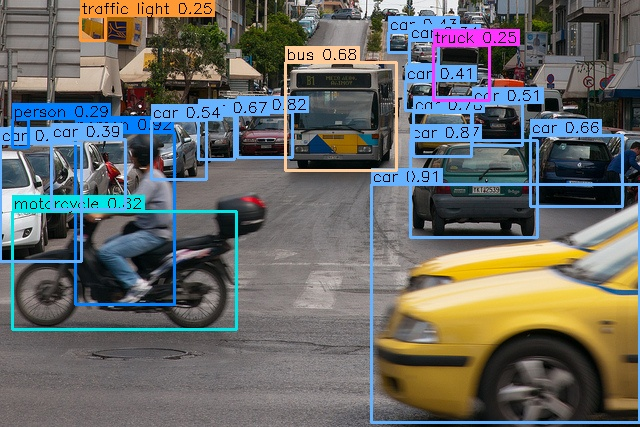
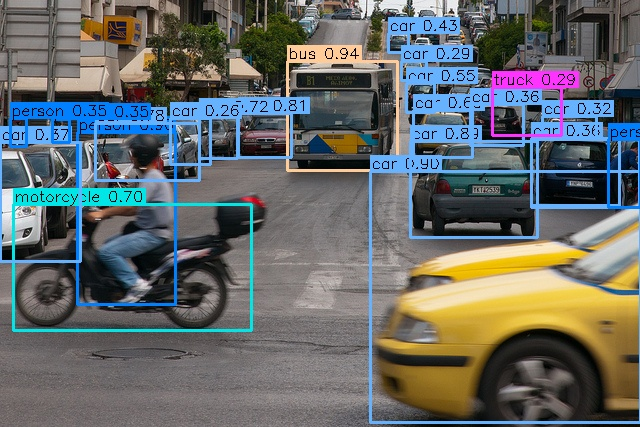
docs: update detection results to the 300-epoch runs
Replace the detection table's from-scratch rows with the 300-epoch runs:
YOLO26n 37.82 / 53.24 E2E (38.65 / 54.46 NMS) and Flash-YOLO 35.14 /
50.15 E2E (36.09 / 51.56 NMS), keeping the 100-epoch numbers as history.
Record the runs (63 h 12 min / 62 h 39 min, batch 32), the 100->300 gains
and the near-flat final-10-epoch curves in weights.md, yolo26-runs.md,
flash-yolo-spec.md and alignment.md.

Regenerate the two detection sample renders with the 300-epoch Flash-YOLO
checkpoint and update assets/README.md accordingly; segmentation renders
remain the 100-epoch checkpoint.

diff --git a/docs/yolo26-runs.md b/docs/yolo26-runs.md
@@ -8,7 +8,8 @@
 
 - 官方 40.1（E2E）/ 40.9（NMS）= **Objects365v1 预训练 150 轮 + COCO 微调 245 轮**（n 档
   batch 128）的结果，**不是从零训练**——本页的从零数字与它不构成 like-for-like 对比。
-- 本仓库自己那条"从零 100 轮"基线是给"100 轮预算能买到什么"这个问题一个诚实回答。
+- 本仓库的从零基线：**100 轮 36.22 / 300 轮 37.82**（E2E，均 @640）——分别回答
+  "100/300 轮预算能买到什么"。
 
 ## 2. 官方权重验收（复现基线）
 
@@ -44,6 +45,7 @@ python scripts/eval.py --weights weights/yolo26n.safetensors --data coco --nms  
 | run | 时间 | 配置（640 输入） | 状态 | 训练中 best | 正式 mAP@[.5:.95] / mAP@50 |
 |---|---|---|---|---|---|
 | `yolo26n-from-scratch` | 10-07 20:44 → 10-08 11:03 | 100 ep · batch 64 · default 配方 · 14 h 18 m | 完成 | 0.3581 / 0.5065 | **36.22 / 51.32**（E2E）· **37.15 / 52.67**（NMS） |
+| `v1-yolo26n-e300`（`-e3002`） | 10-25 14:35 → 10-28 05:48 | 300 ep · batch 32（nbs 64 → accum 2）· default 配方 · 63 h 12 m | 完成 | 0.3740 / 0.5258（best 在 ep297） | **37.82 / 53.24**（E2E）· **38.65 / 54.46**（NMS） |
 | （早期）误用 `coco-ft` 微调档的 100 轮 | 2026-10 早期 | 100 ep · batch 64 | 完成（**产物未留存**） | — | 32.33 / —（E2E）· 33.29 / —（NMS） |
 | `yolo26n` | 10-08 14:36 | 100 ep 启动 | 第 1 轮内中断（无产物） | — | — |
 | `abcur` / `abcurb` | 10-08 16:31 | coco-tiny · 1 ep · `--val-limit 100` | 开发冒烟 | — | — |
@@ -56,8 +58,20 @@ python scripts/eval.py --weights yolo26n-from-scratch-e100-640.safetensors --dat
 python scripts/eval.py --weights yolo26n-from-scratch-e100-640.safetensors --data coco --nms
 ```
 
+> `v1-yolo26n-e300` 用 v0.7.0 默认（MuSGD 0.2/1.0）与 batch 32（nbs 64 → accumulate 2），
+> 与 100 轮 run 的 batch 64 / 旧 MuSGD 默认不同；梯度语义由 nbs 保证，数字差异主要来自预算。
+
+```bash
+# 从零 300 轮（v1 战役；63 h 12 m，正式 37.82 / 53.24 E2E · 38.65 / 54.46 NMS）
+python scripts/train.py --data coco --name v1-yolo26n-e300 --batch 32 --epochs 300
+python scripts/eval.py --weights runs/train/train-v1-yolo26n-e3002/weights/best.safetensors --data coco
+python scripts/eval.py --weights runs/train/train-v1-yolo26n-e3002/weights/best.safetensors --data coco --nms
+```
+
 **收敛观察**：100 轮最后 10 轮 FastMetrics 仍 **+0.0038 mAP / +0.0046 mAP50**——放缓但没平，
-说明 100 轮还没吃干净基线配方。这也是"官方 245 轮 + O365 预训练"不可直接对比的直观证据。
+说明 100 轮还没吃干净基线配方。300 轮最后 10 轮只剩 **+0.0012 / +0.0017**（ep295→300），
+末段（close_mosaic + lr→0）合计约 +0.1——300 轮已接近该配方的从零收敛上限。100 → 300 轮
+买到 **+1.60 / +1.92**（E2E）与 +1.50 / +1.79（NMS）。
 
 ## 4. 训练管线与官方的对齐
 
@@ -89,17 +103,19 @@ python scripts/eval.py --weights yolo26n-from-scratch-e100-640.safetensors --dat
    o2o cls P3 头出现 BN 掩蔽的复利增长（loss 全程正常而权重 1.8→1e10，~110 batch 内发散）。
    排查这类"loss 正常但权重爆"要盯**非 bias 权重的 |w|max**。
 
-## 6. 为什么还差 4 个点
+## 6. 为什么还差 2.5 个点
 
-- 36.22（本仓库从零 100 轮）vs 40.27（官方权重本管线）：差距全部来自**训练侧**，不含实现
-  差异——同一套代码跑官方权重就是 40.27，且 loss/梯度与官方双实现对照 <1%/<2%。
-- 两个已知来源：**O365 预训练**（官方全部 checkpoint 都有）+ **轮数预算**（100 vs 245）。
-- 100 轮未收敛（见第 3 节末 10 轮数据）支持"预算不足"这一半；O365 那一半本仓库无法提供
-  （缺数据集与算力），因此不宣称"从零可复现 40.1"。
+- 37.82（本仓库从零 300 轮）vs 40.27（官方权重本管线）：差距 2.45，全部来自**训练侧**，
+  不含实现差异——同一套代码跑官方权重就是 40.27，且 loss/梯度与官方双实现对照 <1%/<2%。
+- 两个已知来源：**O365 预训练**（官方全部 checkpoint 都有）+ **预算/微调轮数**（官方 =
+  O365 150 轮 + COCO 245 轮微调，不是从零 300 轮）。
+- 预算已被 100→300 轮的 +1.60 / +1.92 部分兑现；300 轮末段已经平（最后 10 轮 +0.0012），
+  继续加轮数的边际收益很小。剩余 2.45 主要是 O365 初始化——本仓库无法提供（缺数据集与算力），
+  因此不宣称"从零可复现 40.1"。
 
 ## 7. 备注
 
-- `runs/train/yolo26n-from-scratch/` 是唯一保留完整产物的从零 run（diag / samples / 周期
-  checkpoint / resume.pt 齐全），复盘与对照都用它。
+- `runs/train/yolo26n-from-scratch/`（100 ep）与 `runs/train/train-v1-yolo26n-e3002/`
+  （300 ep）保留完整产物（diag / samples / 周期 checkpoint / resume.pt 齐全），复盘与对照都用它们。
 - 早期"误用 coco-ft 档"的 100 轮 run 与增强修复前的基线 run 的产物未留存，本页记录的是
   当时写入 CLAUDE.md 的正式数字。

diff --git a/docs/weights.md b/docs/weights.md
@@ -1,8 +1,8 @@
 # 发布权重档案（Released checkpoints）
 
 > 权重与延迟的权威档案：4 份**从零自训**检测 checkpoint 的精度 / 速度 / 部署产物记录
-> （2026-10-15 复测），另附分割参考数字。2026-10-26 又补录了两份 v0.7.0 默认值复跑的
-> v3 权重（本地、未分发，见 §1.1）。
+> （2026-10-15 复测），另附分割参考数字。2026-10-26/28 补录了 v0.7.0 默认值的 300 轮 run
+> （v3 与检测，本地、未分发，见 §1.1 / §1.2）。
 > 权重本体随 GitHub [Releases](https://github.com/zjykzj/flash-yolo/releases) 分发（自训产物，
 > 官方来源的转换权重不随附——用 `scripts/download_weights.py` + `convert_weights.py` 自行获取）。
 > 训练过程与配方见 `yolov3-tiny-runs.md` / `yolo26-runs.md` / `flash-yolo-spec.md` /
@@ -23,7 +23,7 @@
 + COCO 微调）= **40.27 / 55.80**（E2E）· **40.89 / 56.87**（NMS）。v3 两行与官方 v3 的 mAP50-95
 差 0.42 / 0.87；mAP50 差 3.93 / 4.81。
 
-### 1.1 本地复跑（v0.7.0 默认，未随 Release 分发）
+### 1.1 v3 300 轮（v0.7.0 默认，未随 Release 分发）
 
 2026-10-25/26 用 v0.7.0 原样默认（MuSGD 0.2/1.0）复跑了两条 300 轮，配方与上表两份 v3
 权重逐项相同（batch 64 / nbs 64 / 416 / seed 0 / `--obj-iou-target`），唯一差异是 MuSGD
@@ -37,6 +37,23 @@
 对照：v0.6.0 批次同配方 = 16.52 / 30.44（SiLU）与 16.07 / 29.56（原版）——原版基本复现，
 SiLU 低 0.37 / 0.51；SiLU 相对原版的增益从 +0.45 / +0.88 缩小到 +0.12 / +0.34。分析见
 `yolov3-tiny-runs.md` §4.6。要复现 v0.6.0 数字，训练时加 `--muon-w 0.528 --sgd-w 0.674`。
+
+### 1.2 检测 300 轮（v0.7.0 默认，未随 Release 分发）
+
+2026-10-25 → 10-28 从零 300 轮（default 配方、640、batch 32、nbs 64、fp32、seed 0、v0.7.0
+默认 MuSGD 0.2/1.0），产物在本地 `runs/`：
+
+| 权重（本地路径） | 输出 | 训练 | 输入 | mAP50-95 | mAP50 | P / R |
+|---|---|---|---:|---:|---:|---:|
+| `runs/train/train-v1-yolo26n-e3002/weights/best.safetensors` | YOLO26n · E2E | 300 ep · 63 h 12 min | 640 | **37.82** | **53.24** | 0.6652 / 0.4984 |
+| 同上 · NMS（o2m） | | 同 run | 640 | 38.65 | 54.46 | 0.6752 / 0.5092 |
+| `runs/train/train-v1-flash-yolo-e3002/weights/best.safetensors` | Flash-YOLO · E2E | 300 ep · 62 h 39 min | 640 | **35.14** | **50.15** | 0.6245 / 0.4799 |
+| 同上 · NMS（o2m） | | 同 run | 640 | 36.09 | 51.56 | 0.6441 / 0.4910 |
+
+- 100 轮参考（§1 主表）：yolo26n 36.22 / 51.32（NMS 37.15 / 52.67）、flash 33.77 / 48.63
+  （NMS 34.72 / 50.16）→ 300 轮增益 +1.60 / +1.92 与 +1.37 / +1.52（E2E）。
+- 官方 yolo26n（O365 + COCO）E2E 40.27 / 55.80 → 从零 300 轮差 2.45 / 2.56。
+- 评估产物：`runs/val/val5`（yolo26n E2E）、`val7`（NMS）、`val6`（flash E2E）、`val8`（NMS）。
 
 ## 2. 分割参考（COCO val2017，Box + Mask，640）
 
@@ -91,6 +108,8 @@ COCO 微调；从零行与官方**不是同预算**。
 - 2026-10-26 复跑的两份 v3 权重与上表 v3 两行**架构与导出链路完全相同**，延迟不随权重数值
   变化，故不新增表行。本次抽检（416，单图 model-only）：pt ≈2.4–2.7 ms、ORT-CPU
   ≈4.4–5.1 ms、TRT fp32 ≈0.8 ms、TRT fp16 ≈1.0–1.2 ms，与上表同量级。
+- 2026-10-28 的两份检测 300 轮权重（§1.2）与 100 轮检测权重架构/导出链路相同，延迟不随权重
+  数值变化，不新增表行。
 
 ## 4. 部署产物（`runs/release-weights/`，与本页同批生成）
 
@@ -125,6 +144,8 @@ COCO 微调；从零行与官方**不是同预算**。
   （`version 0.5.0` · `commit 0baa0bf` · `describe v0.5.0-20-g0baa0bf`）
 - 两份 v0.7.0 复跑权重（本地）：header 自带 `arch/scale/nc/imgsz/names` + provenance
   （`version 0.7.0` · `commit e7cac56` · `describe v0.7.0-3-ge7cac56-dirty`）
+- 两份检测 300 轮权重（本地）：同 provenance（`version 0.7.0` · `commit e7cac56` ·
+  `describe v0.7.0-3-ge7cac56-dirty`）
 - `flash-yolo-e100-640`：自带 arch/scale/nc/imgsz（保存于 2026-10-11，无 provenance 字段）
 - `yolo26n-from-scratch-e100-640`：无 metadata（保存于 2026-10-08）——消费时需显式
   `--model yolo26 --scale n --imgsz 640`

diff --git a/README.md b/README.md
@@ -23,14 +23,18 @@
 
 COCO val2017, official pycocotools (`scripts/eval.py`), 640 input. E2E = NMS-free default path;
 NMS = one-to-many head + NMS. Official rows are Objects365 pretraining + COCO finetuning;
-"from scratch" rows use the built-in baseline recipe for 100 epochs — not like for like.
+"from scratch" rows use the built-in baseline recipe for 300 epochs — not like for like.
 
 | Model | Training | E2E mAP50-95 | E2E mAP50 | NMS mAP50-95 | NMS mAP50 | Params | GFLOPs |
 |---|---|---:|---:|---:|---:|---:|---:|
 | YOLO26n · official weights | O365 + COCO | **40.27** | 55.80 | **40.89** | 56.87 | 2.57M | 5.48 |
-| YOLO26n · this repo | 100 ep from scratch | 36.22 | 51.32 | 37.15 | 52.67 | 2.57M | 5.48 |
-| Flash-YOLO · this repo | 100 ep from scratch | 33.77 | 48.63 | 34.72 | 50.16 | 1.97M | 3.80 |
-| **Δ (Flash-YOLO vs YOLO26n, same budget)** | | **−2.45 (−7%)** | **−2.69 (−5%)** | | | **−0.60M (−23%)** | **−1.68 (−31%)** |
+| YOLO26n · this repo | 300 ep from scratch | **37.82** | **53.24** | **38.65** | **54.46** | 2.57M | 5.48 |
+| Flash-YOLO · this repo | 300 ep from scratch | **35.14** | **50.15** | **36.09** | **51.56** | 1.97M | 3.80 |
+| **Δ (Flash-YOLO vs YOLO26n, same budget)** | | **−2.68 (−7.1%)** | **−3.09 (−5.8%)** | | | **−0.60M (−23%)** | **−1.68 (−31%)** |
+
+- These are the 300-epoch from-scratch runs (batch 32, nbs 64, fp32, single GPU); the earlier
+  100-epoch results (36.22 / 33.77 E2E) are kept in [docs/weights.md](docs/weights.md) and
+  [docs/yolo26-runs.md](docs/yolo26-runs.md).
 
 <p align="center">
   <img src="assets/demo_seg.gif" width="640" alt="YOLO26n-seg instance segmentation demo — street traffic">
@@ -227,7 +231,7 @@ Full engine and output notes: [docs/infer.md](docs/infer.md).
   <img src="assets/traffic_det.jpg" width="49%" alt="flash-yolo detections — street traffic">
   <img src="assets/baseball_det.jpg" width="49%" alt="flash-yolo detections — baseball">
   <br>
-  <em>Detections by the 100-epoch Flash-YOLO checkpoint — COCO val2017 samples, 640 input</em>
+  <em>Detections by the 300-epoch Flash-YOLO checkpoint — COCO val2017 samples, 640 input</em>
 </p>
 
 ### Segmentation

diff --git a/assets/README.md b/assets/README.md
@@ -2,15 +2,14 @@
 
 Demo images in this directory are samples from the COCO dataset (val2017), picked for
 demo-friendly scenes; the `*_det.jpg` counterparts are detections rendered by `scripts/infer.py`
-with the **100-epoch from-scratch flash-yolo checkpoint** (COCO train2017, 33.77 mAP@[.5:.95]);
-the `*_seg.jpg` counterparts are instance segmentation rendered with the **100-epoch from-scratch
-flash-yolo-seg checkpoint** (Box 33.11 / Mask 28.24 mAP@[.5:.95]). Both use 640 input and the
-default inference threshold (conf 0.25). Rendered with:
+with the **300-epoch from-scratch flash-yolo checkpoint** (COCO train2017, 35.14 mAP@[.5:.95],
+E2E); the `*_seg.jpg` counterparts are instance segmentation rendered with the **100-epoch
+from-scratch flash-yolo-seg checkpoint** (Box 33.11 / Mask 28.24 mAP@[.5:.95]). Both use 640 input
+and the default inference threshold (conf 0.25). Rendered with:
 
 ```bash
-python scripts/train.py --data coco --model flash-yolo --name flash-coco-e100 --batch 64 --workers 16
-python scripts/infer.py --weights runs/train/train-flash-coco-e100/weights/best.safetensors --image assets/traffic.jpg
-python scripts/infer.py --weights runs/train/train-flash-coco-e100/weights/best.safetensors --image assets/baseball.jpg
+python scripts/infer.py --weights runs/train/train-v1-flash-yolo-e3002/weights/best.safetensors --image assets/traffic.jpg
+python scripts/infer.py --weights runs/train/train-v1-flash-yolo-e3002/weights/best.safetensors --image assets/baseball.jpg
 
 python scripts/infer.py --weights runs/train/train-flash-seg-100ep2/weights/best.safetensors --image assets/traffic.jpg
 python scripts/infer.py --weights runs/train/train-flash-seg-100ep2/weights/best.safetensors --image assets/baseball.jpg
